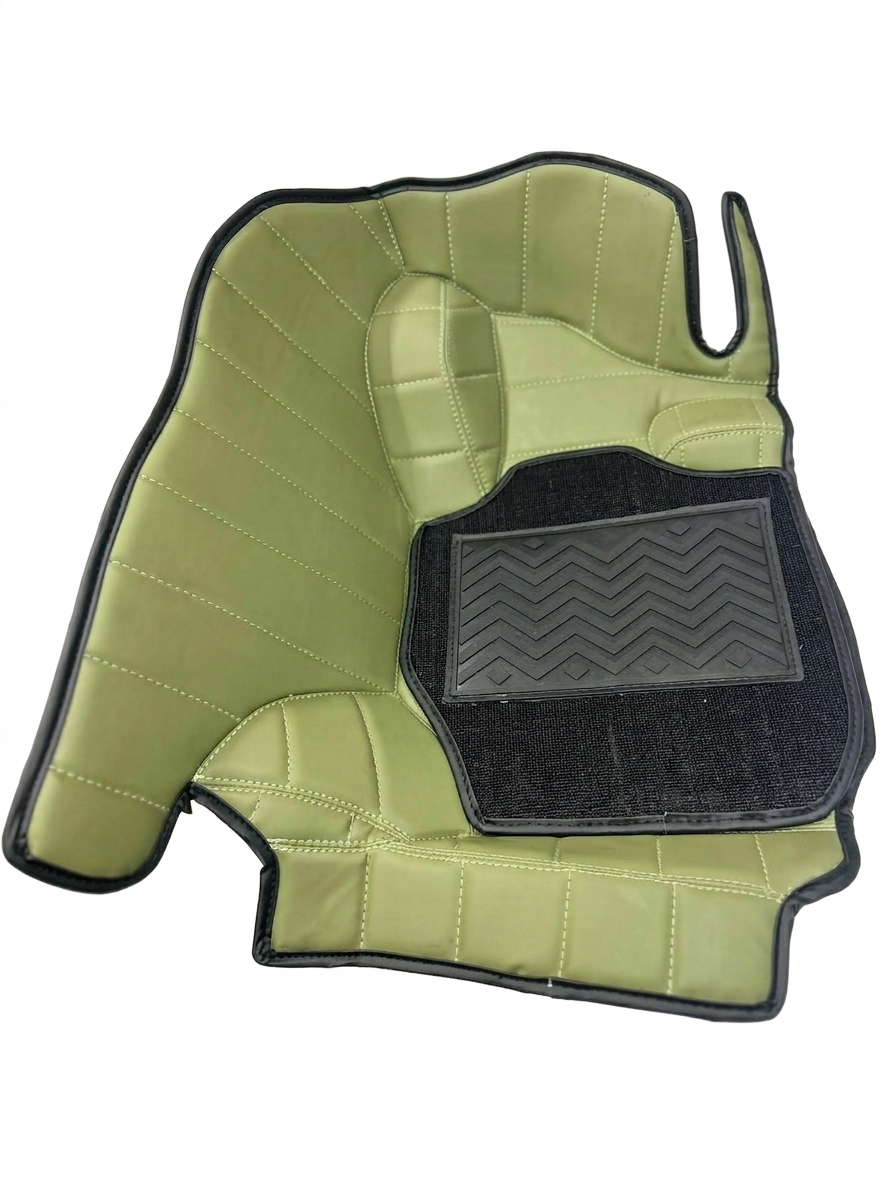
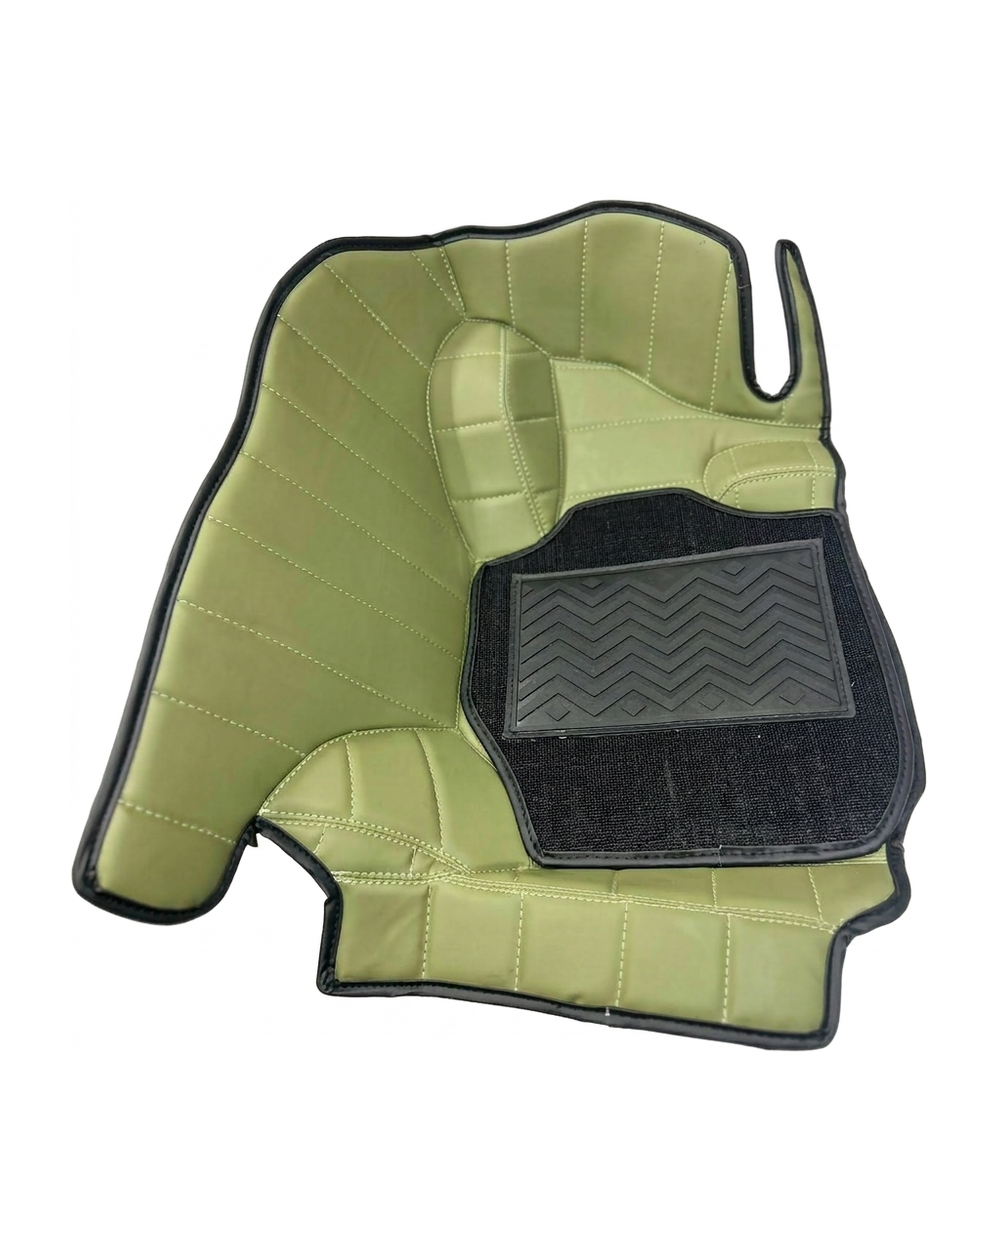
Standardize Premium category images, update marquee highlights, remove inside cabin & green mat pics, refine zoom to 95%

Changed region(s): [[0.0, 0.1238, 1.0, 0.8669]]

diff --git a/src/pages/Product.jsx b/src/pages/Product.jsx
@@ -7,8 +7,8 @@ import Icon from '../components/Icon';
 import { Button } from '../components/ui/button';
 import { site, whatsappUrl } from '../data';
 export default function Product() {
-  const { id } = useParams(); const product = collections.find(item => item.id === id); const [image, setImage] = useState(0); const [category, setCategory] = useState('Normal'); const [seats, setSeats] = useState('5'); const [colour, setColour] = useState(product?.colours?.[0]?.name || 'Standard'); const [quantity, setQuantity] = useState(1); const [brand, setBrand] = useState(''); const [model, setModel] = useState(''); const [added, setAdded] = useState(false); const [error, setError] = useState('');
-  useEffect(() => { setImage(Math.max(0, product?.images.indexOf(product?.colours?.[0]?.image) ?? 0)); setColour(product?.colours?.[0]?.name || 'Standard'); setQuantity(1); setBrand(''); setModel(''); setCategory('Normal'); setSeats('5'); setAdded(false); setError(''); }, [id]);
+  const { id } = useParams(); const product = collections.find(item => item.id === id); const [image, setImage] = useState(0); const [category, setCategory] = useState('Normal'); const [seats, setSeats] = useState('5'); const [colour, setColour] = useState(product?.id === 'premium-pro' ? 'Signature Dual-Tone' : (product?.colours?.[0]?.name || 'Standard')); const [quantity, setQuantity] = useState(1); const [brand, setBrand] = useState(''); const [model, setModel] = useState(''); const [added, setAdded] = useState(false); const [error, setError] = useState('');
+  useEffect(() => { setImage(Math.max(0, product?.images.indexOf(product?.colours?.[0]?.image) ?? 0)); setColour(product?.id === 'premium-pro' ? 'Signature Dual-Tone' : (product?.colours?.[0]?.name || 'Standard')); setQuantity(1); setBrand(''); setModel(''); setCategory('Normal'); setSeats('5'); setAdded(false); setError(''); }, [id]);
   if (!product) return <main className="page page-top"><h1 className="page-title">Collection not found.</h1><Link className="button red" to="/shop">Back to shop</Link></main>;
   const price = priceFor(product, category, seats); const imageSrc = product.images[image];
   const enquiryUrl = whatsappUrl([
@@ -27,5 +27,6 @@ export default function Product() {
       setAdded(true); setError('');
     } catch { setError('Your browser could not save the cart. Please allow local storage and try again.'); }
   };
-  return <main id="main-content" className="page page-top product-page"><Link className="back-link" to="/shop">← Back to all collections</Link><div className="product-layout"><div><div className="product-gallery">{imageSrc ? <img src={imageSrc} alt={`${product.name} ${product.type}`} /> : <div className="universal-art"><span>PROGEAR / ESSENTIALS</span><strong>EVERY CAR.<br />EVERY DAY.</strong></div>}{product.images.length > 1 && <button className="photo-open icon-button" onClick={() => setImage((image + 1) % Math.max(product.images.length, 1))} aria-label="Next product photo"><Icon name="arrow" /></button>}</div>{product.images.length > 1 && <div className="thumb-row">{product.images.map((src, index) => <button key={src} className={index === image ? 'active' : ''} aria-label={`View product photo ${index + 1}`} aria-pressed={index === image} onClick={() => setImage(index)}><img src={src} alt="" /></button>)}</div>}</div><div className="product-copy"><p className="eyebrow">{product.label}</p><h1>{product.name} <span>{product.type}</span></h1><p className="product-lede">{product.description}</p>{price && <div className="price-line"><strong>{money(price[0])}</strong>{price[1] > price[0] && <del>{money(price[1])}</del>}<span className="discount-tag">Best price</span></div>}<p className="price-caption">Free shipping across India · extra 10% off on full payment</p><div className="product-form"><div className="choice-label"><span>Choose your finish</span><b>{colour}</b></div>{product.colours.length ? <div className="swatches">{product.colours.map(c => <button key={c.name} className={colour === c.name ? 'active' : ''} title={c.name} aria-label={c.name} aria-pressed={colour === c.name} onClick={() => { setColour(c.name); setImage(product.images.indexOf(c.image) >= 0 ? product.images.indexOf(c.image) : 0); }}><i style={{ background: c.hex }} /></button>)}</div> : <p className="microcopy">One all-weather finish. Trim to fit at home.</p>}<div className="product-option"><span className="product-option-label">Vehicle category</span><div className="product-segment" role="group" aria-label="Vehicle category">{['Normal', 'Luxury'].map(item => <button type="button" className={category === item ? 'active' : ''} aria-pressed={category === item} key={item} onClick={() => { setCategory(item); setBrand(''); setModel(''); setAdded(false); }}>{item}</button>)}</div></div><div className="product-option"><span className="product-option-label">Seats</span><div className="product-segment" role="group" aria-label="Seats">{['5', '7'].map(item => <button type="button" className={seats === item ? 'active' : ''} aria-pressed={seats === item} key={item} onClick={() => { setSeats(item); setAdded(false); }}>{item} seater</button>)}</div></div><div className="vehicle-fields"><label>Car brand<select className="field" value={brand} onChange={e => { setBrand(e.target.value); setModel(''); }}><option value="">Select brand</option>{brandGroups[category].map(item => <option key={item}>{item}</option>)}</select></label><label>Model & year<Input maxLength={100} value={model} onChange={e => setModel(e.target.value)} placeholder="e.g. Creta 2024" /></label></div><p className="price-group-note">We’ll confirm your exact year and variant before dispatch. Your selections open pre-filled on WhatsApp.</p><div className="product-enquiry-actions"><a className="product-whatsapp" href={enquiryUrl} target="_blank" rel="noreferrer">Enquire on WhatsApp</a><a className="product-call" href={`tel:${site.phone.replace(/\s/g, '')}`}>Call instead</a></div><div className="add-cart-row product-cart-row"><div className="quantity-control"><Button variant="ghost" size="icon" disabled={quantity === 1} aria-label="Decrease quantity" onClick={() => setQuantity(Math.max(1, quantity - 1))}><Icon name="minus" size={15} /></Button><span>{quantity}</span><Button variant="ghost" size="icon" aria-label="Increase quantity" onClick={() => setQuantity(quantity + 1)}><Icon name="plus" size={15} /></Button></div><Button onClick={addToCart}><Icon name="bag" size={18} />Add to cart</Button></div>{error && <p role="alert" className="notice">{error}</p>}{added && <p role="status" className="notice">Added to cart. <Link to="/cart">View cart →</Link></p>}</div><div className="product-delivery"><span><Icon name="truck" size={18} /> Free shipping across India</span><span><Icon name="shield" size={18} /> Fitment checked before dispatch</span></div></div></div><details className="product-details"><summary>Specifications & features</summary><section className="spec-grid">{product.specs.map(([title, copy]) => <article key={title}><h3>{title}</h3><p>{copy}</p></article>)}</section></details><details className="product-details"><summary>Care & maintenance</summary><section className="care-section"><p className="eyebrow">Care & maintenance</p><h2 className="section-title">Keep it looking<br />good for longer.</h2><div className="care-grid">{care.map(([number, title, copy]) => <article key={number}><span>{number}</span><h3>{title}</h3><p>{copy}</p></article>)}</div></section></details></main>;
+  const isPremPro = product.id === 'premium-pro';
+  return <main id="main-content" className="page page-top product-page"><Link className="back-link" to="/shop">← Back to all collections</Link><div className="product-layout"><div><div className="product-gallery">{imageSrc ? <img src={imageSrc} alt={`${product.name} ${product.type}`} /> : <div className="universal-art"><span>PROGEAR / ESSENTIALS</span><strong>EVERY CAR.<br />EVERY DAY.</strong></div>}{product.images.length > 1 && <button className="photo-open icon-button" onClick={() => setImage((image + 1) % Math.max(product.images.length, 1))} aria-label="Next product photo"><Icon name="arrow" /></button>}</div>{product.images.length > 1 && <div className="thumb-row">{product.images.map((src, index) => <button key={src} className={index === image ? 'active' : ''} aria-label={`View product photo ${index + 1}`} aria-pressed={index === image} onClick={() => setImage(index)}><img src={src} alt="" /></button>)}</div>}</div><div className="product-copy"><p className="eyebrow">{product.label}</p><h1>{product.name} <span>{product.type}</span></h1><p className="product-lede">{product.description}</p>{price && <div className="price-line"><strong>{money(price[0])}</strong>{price[1] > price[0] && <del>{money(price[1])}</del>}<span className="discount-tag">Best price</span></div>}<p className="price-caption">Free shipping across India · extra 10% off on full payment</p><div className="product-form">{isPremPro ? <div className="choice-label choice-dual-tone"><span>Finish</span><b>Signature Dual Tones · Customised to order</b></div> : <><div className="choice-label"><span>Choose your finish</span><b>{colour}</b></div>{product.colours.length ? <div className="swatches">{product.colours.map(c => <button key={c.name} className={colour === c.name ? 'active' : ''} title={c.name} aria-label={c.name} aria-pressed={colour === c.name} onClick={() => { setColour(c.name); setImage(product.images.indexOf(c.image) >= 0 ? product.images.indexOf(c.image) : 0); }}><i style={{ background: c.hex }} /></button>)}</div> : <p className="microcopy">One all-weather finish. Trim to fit at home.</p>}</>}<div className="product-option"><span className="product-option-label">Vehicle category</span><div className="product-segment" role="group" aria-label="Vehicle category">{['Normal', 'Luxury'].map(item => <button type="button" className={category === item ? 'active' : ''} aria-pressed={category === item} key={item} onClick={() => { setCategory(item); setBrand(''); setModel(''); setAdded(false); }}>{item}</button>)}</div></div><div className="product-option"><span className="product-option-label">Seats</span><div className="product-segment" role="group" aria-label="Seats">{['5', '7'].map(item => <button type="button" className={seats === item ? 'active' : ''} aria-pressed={seats === item} key={item} onClick={() => { setSeats(item); setAdded(false); }}>{item} seater</button>)}</div></div><div className="vehicle-fields"><label>Car brand<select className="field" value={brand} onChange={e => { setBrand(e.target.value); setModel(''); }}><option value="">Select brand</option>{brandGroups[category].map(item => <option key={item}>{item}</option>)}</select></label><label>Model & year<Input maxLength={100} value={model} onChange={e => setModel(e.target.value)} placeholder="e.g. Creta 2024" /></label></div><p className="price-group-note">We’ll confirm your exact year and variant before dispatch. Your selections open pre-filled on WhatsApp.</p><div className="product-enquiry-actions"><a className="product-whatsapp" href={enquiryUrl} target="_blank" rel="noreferrer">Enquire on WhatsApp</a><a className="product-call" href={`tel:${site.phone.replace(/\s/g, '')}`}>Call instead</a></div><div className="add-cart-row product-cart-row"><div className="quantity-control"><Button variant="ghost" size="icon" disabled={quantity === 1} aria-label="Decrease quantity" onClick={() => setQuantity(Math.max(1, quantity - 1))}><Icon name="minus" size={15} /></Button><span>{quantity}</span><Button variant="ghost" size="icon" aria-label="Increase quantity" onClick={() => setQuantity(quantity + 1)}><Icon name="plus" size={15} /></Button></div><Button onClick={addToCart}><Icon name="bag" size={18} />Add to cart</Button></div>{error && <p role="alert" className="notice">{error}</p>}{added && <p role="status" className="notice">Added to cart. <Link to="/cart">View cart →</Link></p>}</div><div className="product-delivery"><span><Icon name="truck" size={18} /> Free shipping across India</span><span><Icon name="shield" size={18} /> Fitment checked before dispatch</span></div></div></div><details className="product-details"><summary>Specifications & features</summary><section className="spec-grid">{product.specs.map(([title, copy]) => <article key={title}><h3>{title}</h3><p>{copy}</p></article>)}</section></details><details className="product-details"><summary>Care & maintenance</summary><section className="care-section"><p className="eyebrow">Care & maintenance</p><h2 className="section-title">Keep it looking<br />good for longer.</h2><div className="care-grid">{care.map(([number, title, copy]) => <article key={number}><span>{number}</span><h3>{title}</h3><p>{copy}</p></article>)}</div></section></details></main>;
 }

diff --git a/src/components/Layout.jsx b/src/components/Layout.jsx
@@ -43,7 +43,27 @@ export function Header({ cartCount = 0 }) {
   useEffect(() => { const update = () => setCount(readCart().reduce((sum, item) => sum + item.quantity, 0)); update(); window.addEventListener('storage', update); window.addEventListener('progear-cart-updated', update); return () => { window.removeEventListener('storage', update); window.removeEventListener('progear-cart-updated', update); }; }, [location.pathname]);
   return <>
     <a className="skip-link" href="#main-content">Skip to content</a>
-    <div className="announcement"><div className="page"><span><Icon name="truck" size={15} /> FREE SHIPPING ACROSS INDIA</span><span><b>EXTRA 10% OFF ON FULL PAYMENT</b> <Icon name="arrow" size={14} /></span><a href={'tel:' + site.whatsapp}>Need help? Call us <Icon name="diagonal" size={13} /></a></div></div>
+    <div className="announcement running-line-bar" role="region" aria-label="Offers announcement">
+      <div className="running-line-track">
+        <div className="running-line-content">
+          <span><Icon name="truck" size={14} /> Free shipping available in PAN India</span>
+          <span className="ticker-dot">•</span>
+          <span><Icon name="shield" size={13} /> Available on Discounted prices</span>
+          <span className="ticker-dot">•</span>
+          <span><Icon name="check" size={13} /> Get additional 10% discount on full payment</span>
+          <span className="ticker-dot">•</span>
+        </div>
+        <div className="running-line-content" aria-hidden="true">
+          <span><Icon name="truck" size={14} /> Free shipping available in PAN India</span>
+          <span className="ticker-dot">•</span>
+          <span><Icon name="shield" size={13} /> Available on Discounted prices</span>
+          <span className="ticker-dot">•</span>
+          <span><Icon name="check" size={13} /> Get additional 10% discount on full payment</span>
+          <span className="ticker-dot">•</span>
+        </div>
+      </div>
+      <a href={'tel:' + site.whatsapp} className="announcement-call-link">Need help? Call us <Icon name="diagonal" size={12} /></a>
+    </div>
     <header ref={headerRef} className="site-header"><div className="page header-inner"><Link to="/" className="brand-lockup" aria-label="ProGear Mats home"><img src="/images/progear-logo1.png" alt="ProGear premium car mats" /></Link><nav className="desktop-nav" aria-label="Main navigation">{navItems.map(([to, label]) => <NavLink to={to} end={to === '/'} key={to}>{label}</NavLink>)}</nav><div className="header-actions"><Link className="header-help" to="/contact">Let’s talk <Icon name="diagonal" size={16} /></Link><Link to="/cart" className="cart-link" aria-label={'Shopping cart, ' + count + ' items'}><Icon name="bag" /><span className="cart-word">Cart</span><span className="cart-count">{count}</span></Link><button ref={menuRef} type="button" className="icon-button menu-button" aria-label={open ? 'Close menu' : 'Open menu'} aria-expanded={open} aria-controls="mobile-navigation" onClick={() => setOpen(v => !v)}><Icon name={open ? 'close' : 'menu'} /></button></div></div>{open && <nav className="mobile-nav page" id="mobile-navigation" aria-label="Mobile navigation">{[...navItems, ['/replacement-policy', 'Replacement Policy'], ['/contact', 'Contact & support'], ['/cart', 'Cart']].map(([to, label]) => <NavLink to={to} end={to === '/'} key={to} onClick={() => setOpen(false)}><span>{label}</span><Icon name="arrow" size={16} /></NavLink>)}</nav>}</header>
   </>;
 }

diff --git a/src/pages/Home.jsx b/src/pages/Home.jsx
@@ -25,7 +25,7 @@ export default function Home() {
       <div className="mobile-product-caption"><div><span>{current.type}</span><h1>{current.name} car mats</h1><p>From {money(startingPrice(collections.find(p => p.id === current.id)))}</p></div><Button asChild><Link to={'/product/' + current.id}>Explore <Icon name="arrow" size={16} /></Link></Button></div>
       <div className="page hero-bottom"><div className="hero-pagination">{heroSlides.map((item, index) => <button key={`${item.id}-${index}`} aria-label={'Show ' + item.name} aria-pressed={slide === index} className={slide === index ? 'active' : ''} onClick={() => { setSlide(index); setPaused(true); }}><span>0{index + 1}</span><i /></button>)}<button className="pause-button" aria-label={paused ? 'Play slideshow' : 'Pause slideshow'} onClick={() => setPaused(p => !p)}><Icon name={paused ? 'play' : 'pause'} size={14} /></button></div><Link className="hero-caption" to={'/product/' + current.id}><span>IN THE FRAME</span><strong>{current.name} <small>{current.type}</small></strong><Icon name="diagonal" size={20} /></Link></div>
     </section>
-    <section className="benefit-strip"><div className="page benefit-grid">{[['truck', 'Free shipping', 'Across India'], ['car', 'Made for your car', 'A precise, tailored fit'], ['layers', 'Protection in every layer', 'Built for everyday life'], ['chat', 'Real people. Real help.', 'Expert fitment support']].map(([icon, title, text]) => <div key={title}><Icon name={icon} size={27} /><div><strong>{title}</strong><span>{text}</span></div></div>)}</div></section>
+    <section className="benefit-strip"><div className="page benefit-grid">{[['truck', 'Free shipping in PAN India', 'Across all locations'], ['shield', 'Available on Discounted prices', 'Best value guarantee'], ['check', 'Extra 10% discount', 'On full payment orders'], ['chat', 'Real people. Real help.', 'Expert fitment support']].map(([icon, title, text]) => <div key={title}><Icon name={icon} size={27} /><div><strong>{title}</strong><span>{text}</span></div></div>)}</div></section>
     <section className="section page" id="collections"><div className="section-heading"><div><p className="eyebrow">THE PROGEAR COLLECTION</p><h2>Shop car mats</h2></div><Link className="text-link" to="/shop">Shop all mats <Icon name="arrow" size={18} /></Link></div><div className="collection-grid">{[...collections.filter(p => p.id !== 'universal'), ...collections.filter(p => p.id === 'universal')].map(p => <ProductCard key={p.id} product={p} />)}</div></section>
     <FitmentShowcase />
     <section className="payment-note page"><Icon name="truck" size={20} /><p><strong>Free shipping across India.</strong> Extra 10% off on full payment.</p></section>

diff --git a/src/index.css b/src/index.css
@@ -25,7 +25,7 @@ body {
   overflow-x: hidden;
   background: #fbfaf7;
   color: #17191c;
-  zoom: 0.9;
+  zoom: 0.95;
 }
 
 body::before {
@@ -1068,7 +1068,7 @@ img {
   overflow: hidden;
   border: 1px solid #e5e2dc;
   border-radius: 1rem;
-  background: #f0eeea;
+  background: #ffffff;
 }
 
 .product-gallery img {
@@ -1778,7 +1778,87 @@ img {
 .announcement {
   background: #181a1c;
   color: #ddd;
-  height: 35px
+  height: 35px;
+}
+
+.running-line-bar {
+  position: relative;
+  background: #121416;
+  color: #e5e5e5;
+  height: 36px;
+  overflow: hidden;
+  display: flex;
+  align-items: center;
+  border-bottom: 1px solid rgba(255, 255, 255, 0.08);
+}
+
+.running-line-track {
+  display: flex;
+  width: max-content;
+  animation: runningLineScroll 28s linear infinite;
+  will-change: transform;
+}
+
+.running-line-track:hover {
+  animation-play-state: paused;
+}
+
+.running-line-content {
+  display: flex;
+  align-items: center;
+  gap: 2.2rem;
+  padding-right: 2.2rem;
+  white-space: nowrap;
+}
+
+.running-line-content span {
+  display: inline-flex;
+  align-items: center;
+  gap: 7px;
+  font-size: 11px;
+  font-weight: 600;
+  letter-spacing: .6px;
+  color: #ececec;
+  text-transform: uppercase;
+}
+
+.running-line-content .ticker-dot {
+  color: #e21f26;
+  font-size: 15px;
+  line-height: 1;
+}
+
+.announcement-call-link {
+  position: absolute;
+  right: 0;
+  top: 0;
+  bottom: 0;
+  background: linear-gradient(90deg, rgba(18,20,22,0) 0%, rgba(18,20,22,0.92) 22%, #121416 100%);
+  padding: 0 1.25rem 0 2rem;
+  display: flex;
+  align-items: center;
+  gap: 6px;
+  font-size: 11px;
+  font-weight: 600;
+  color: #ffffff;
+  z-index: 3;
+  white-space: nowrap;
+  letter-spacing: .3px;
+}
+
+.announcement-call-link:hover {
+  color: #e21f26;
+}
+
+@keyframes runningLineScroll {
+  from { transform: translateX(0); }
+  to { transform: translateX(-50%); }
+}
+
+@media (max-width: 640px) {
+  .announcement-call-link {
+    display: none;
+  }
 }
 
 .announcement .page {
@@ -2344,7 +2424,7 @@ img {
 .product-gallery {
   position: relative;
   aspect-ratio: 1;
-  background: #f1f2f2;
+  background: #ffffff;
   overflow: hidden
 }
 

diff --git a/src/components/HomeSections.jsx b/src/components/HomeSections.jsx
@@ -12,7 +12,7 @@ export function Process() {
 
 export function FitmentShowcase() {
   const visible = fitments.slice(0, 8);
-  return <section className="section fitment-section" id="real-fitments"><div className="page"><div className="section-heading"><div><p className="eyebrow">Car-wise catalogue</p><h2 className="section-title">Fitted in real cars.</h2></div><div className="section-side-copy"><p>Browse real fitment images from the current library.</p><Link className="text-link" to="/shop">View all models <span aria-hidden="true">↗</span></Link></div></div><div className="fitment-grid">{visible.map(item => <Link to={item.type.includes("9D") ? "/product/premium" : "/product/truevalue"} className="fitment-card" key={item.id}><img src={item.images[0]} alt={`${item.model} ${item.type} mat fitment`} loading="lazy" /><span className="fitment-badge">{item.type}</span><strong>{item.model}</strong></Link>)}</div></div></section>;
+  return <section className="section fitment-section" id="real-fitments"><div className="page"><div className="section-heading"><div><p className="eyebrow">Car-wise catalogue</p><h2 className="section-title">Fitted in real cars.</h2></div><div className="section-side-copy"><p>Browse real fitment images from the current library.</p><Link className="text-link" to="/gallery">View all models <span aria-hidden="true">↗</span></Link></div></div><div className="fitment-grid">{visible.map(item => <Link to="/gallery" className="fitment-card" key={item.id}><img src={item.images[0]} alt={`${item.model} ${item.type} mat fitment`} loading="lazy" /><span className="fitment-badge">{item.type}</span><strong>{item.model}</strong></Link>)}</div></div></section>;
 }
 
 export function Testimonials() {

diff --git a/src/data.js b/src/data.js
@@ -57,7 +57,6 @@ export const fitments = [
   fitment("mercedes-gle", "Mercedes GLE 300D", "9D", "Mercedes GLE 300D 9D", ["0f167fdd-ecef-467b-9eea-27e2752ef3f9.jpg", "cb56dfe2-99bc-448b-b7a9-ff6db651246f.jpg", "0776a40e-20c2-4319-b631-2a67addff599.jpg"], false),
   fitment("safari", "Tata Safari New", "9D", "Safari New 9D Mat", ["e4fb6c92-0c1a-4f60-9437-dd57a89f4aa8.jpg", "0082407a-4074-4f9e-bf92-b0a11ba32490.jpg", "c9bc11f1-d175-4d82-b50b-211d7d62272a.jpg", "e68b08ac-0f0f-40be-a526-6cb3007477b3.jpg"], false),
   fitment("thar", "Mahindra Thar Manual", "9D", "Thar manual 9D", ["b67c54b6-4938-4579-894f-ad5f4e59bec4.jpg", "69ef60d5-7dbd-48a5-8238-3100053ae378.jpg", "c7c0b6fb-c4ae-4359-b526-b7de62f15ba9.jpg", "f360865f-0ca8-4160-8d85-70feeb4db534.jpg"]),
-  fitment("customer-cabin-9d", "ProGear 9D Cabin Fitment", "9D", "", [], true, ["/images/ProGear%20pics%203/Premium%20or%209D/Premium-1.png"]),
 ];
 
 export const products = fitments.map(item => ({

diff --git a/src/catalog.js b/src/catalog.js
@@ -88,7 +88,6 @@ export const collections = [
       prem('Premium-1.png'),
       prem('Premium-6.png'),
       prem('Premium-7.png'),
-      prem('Premium-5.png'),
       prem('Premium-8.png'),
       prem('Premium-10.png'),
     ],
